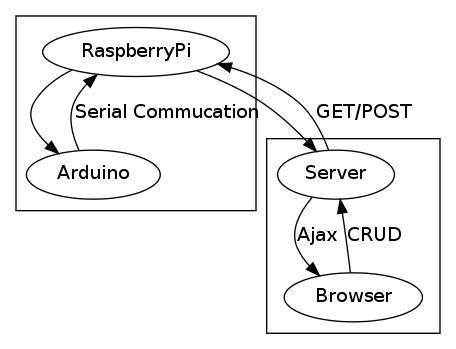
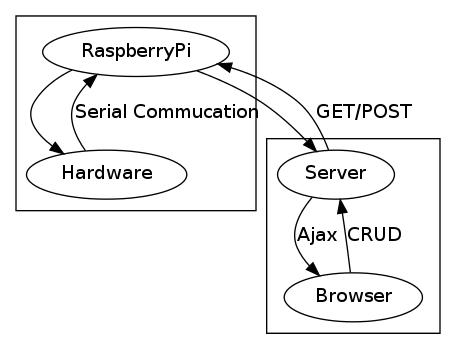
Adjust the system framework

diff --git a/README.md b/README.md
@@ -1,4 +1,4 @@
-#Minimum Internet of Things#
+#Minimum Internet of Things#
 A Minimum IOT with arduino and raspberry pi.
 
 一个最小的物联网系统设计方案及源码
@@ -6,7 +6,8 @@ A Minimum IOT with arduino and raspberry pi.
     android/ 一个最小的Android程序实例
     rest/ PHP Laravel Framework to create RESTful API
     python/ 简单的pyhon示例
-    arduino/ A simple version of Hardware
+    hardware/  硬件串口通信收集
+	 -/ arduino Arduino板
     doc/  文档 简介ppt nginx配置 系统框架图
 
 

diff --git a/hardware/README.md b/hardware/README.md
@@ -1,0 +1,2 @@
+##For the Hardware section##
+Welcome to add you hardware to here.
